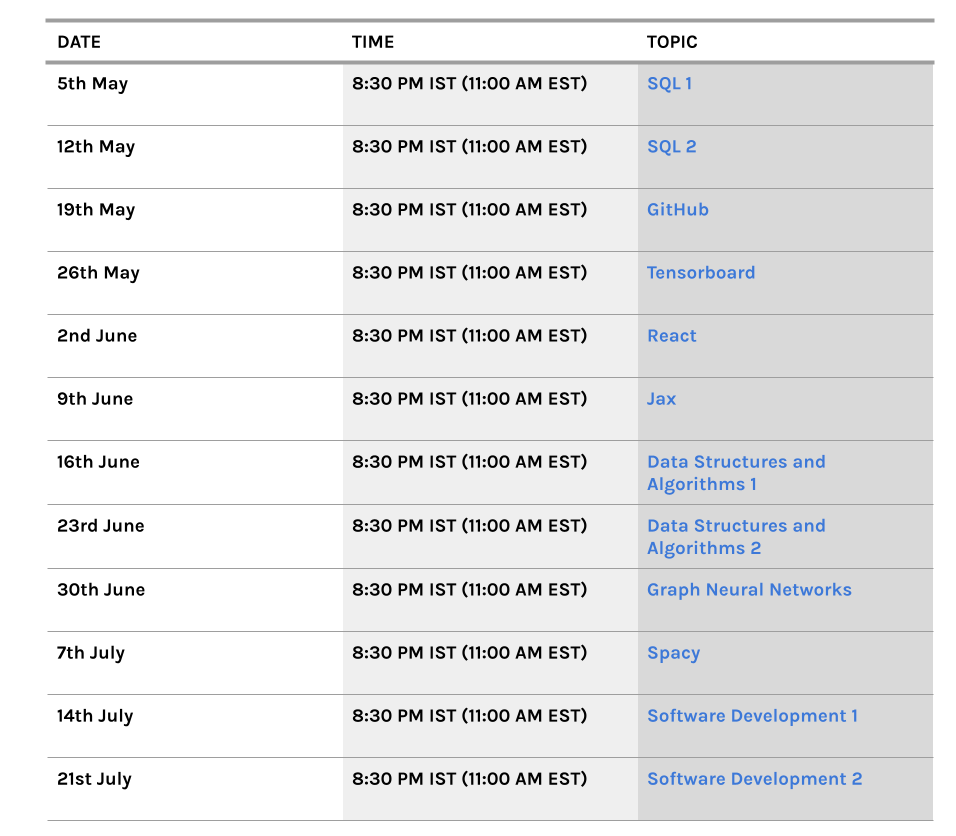
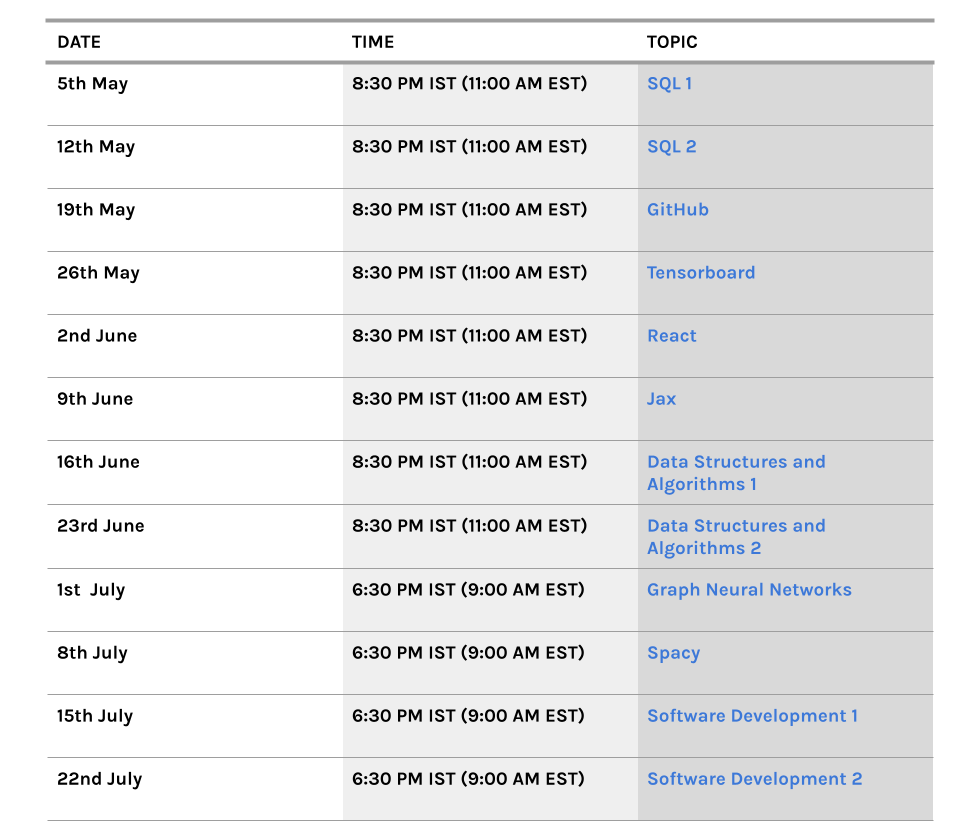
updated uncourse schedule

diff --git a/_pages/uncourse.md b/_pages/uncourse.md
@@ -292,8 +292,8 @@ Here is the current schedule for all our workshops.
         <center><h6>Instructor: Dr. Rahul Dave</h6>
         <img src="/assets/images/people/RahulDave.jpeg" alt="Rahul" style="height:200px;margin-right:15px;"><br><br>
         <h6>Timings</h6>
-        <p>8:30 - 10:30 PM IST <br>
-        (11:00 AM - 1:00 PM EST)</p> <br>
+        <p>6:30 - 8:30 PM IST <br>
+        (9:00 - 11:00 AM EST)</p> <br>
         <button class="register-button" onclick="location.href='https://us02web.zoom.us/meeting/register/tZYocuuvqjkvE9NL1UYNxmmL8-m-2hWL1RSp '">Register</button></center>
       </div>
     </div>
@@ -319,8 +319,8 @@ Here is the current schedule for all our workshops.
         <center><h6>Instructor: Yashraj Wani</h6>
         <img src="/assets/images/people/YashrajWani.png" alt="Yashraj" style="height:200px;margin-right:15px;"><br><br>
         <h6>Timings</h6>
-        <p>8:30 - 10:30 PM IST <br>
-        (11:00 AM - 1:00 PM EST)</p> <br>
+        <p>6:30 - 8:30 PM IST <br>
+        (9:00 - 11:00 AM EST)</p> <br>
         <button class="register-button" onclick="location.href='https://us02web.zoom.us/meeting/register/tZYqdOqsrDgpHdXZP1y6Ppa0T-75Cf44dZdG'">Register</button></center>
       </div>
     </div>
@@ -349,8 +349,8 @@ Here is the current schedule for all our workshops.
         <center><h6>Instructor: Dr. Rahul Dave</h6>
         <img src="/assets/images/people/RahulDave.jpeg" alt="Rahul" style="height:200px;margin-right:15px;"><br><br>
         <h6>Timings</h6>
-        <p>8:30 - 10:30 PM IST <br>
-        (11:00 AM - 1:00 PM EST)</p> <br>
+        <p>6:30 - 8:30 PM IST <br>
+        (9:00 - 11:00 AM EST)</p> <br>
         <button class="register-button" onclick="location.href='https://us02web.zoom.us/meeting/register/tZcvde6pqjsjH90GLItUbbwL6XmFVu3NJbzT '">Register</button></center>
       </div>
     </div>
